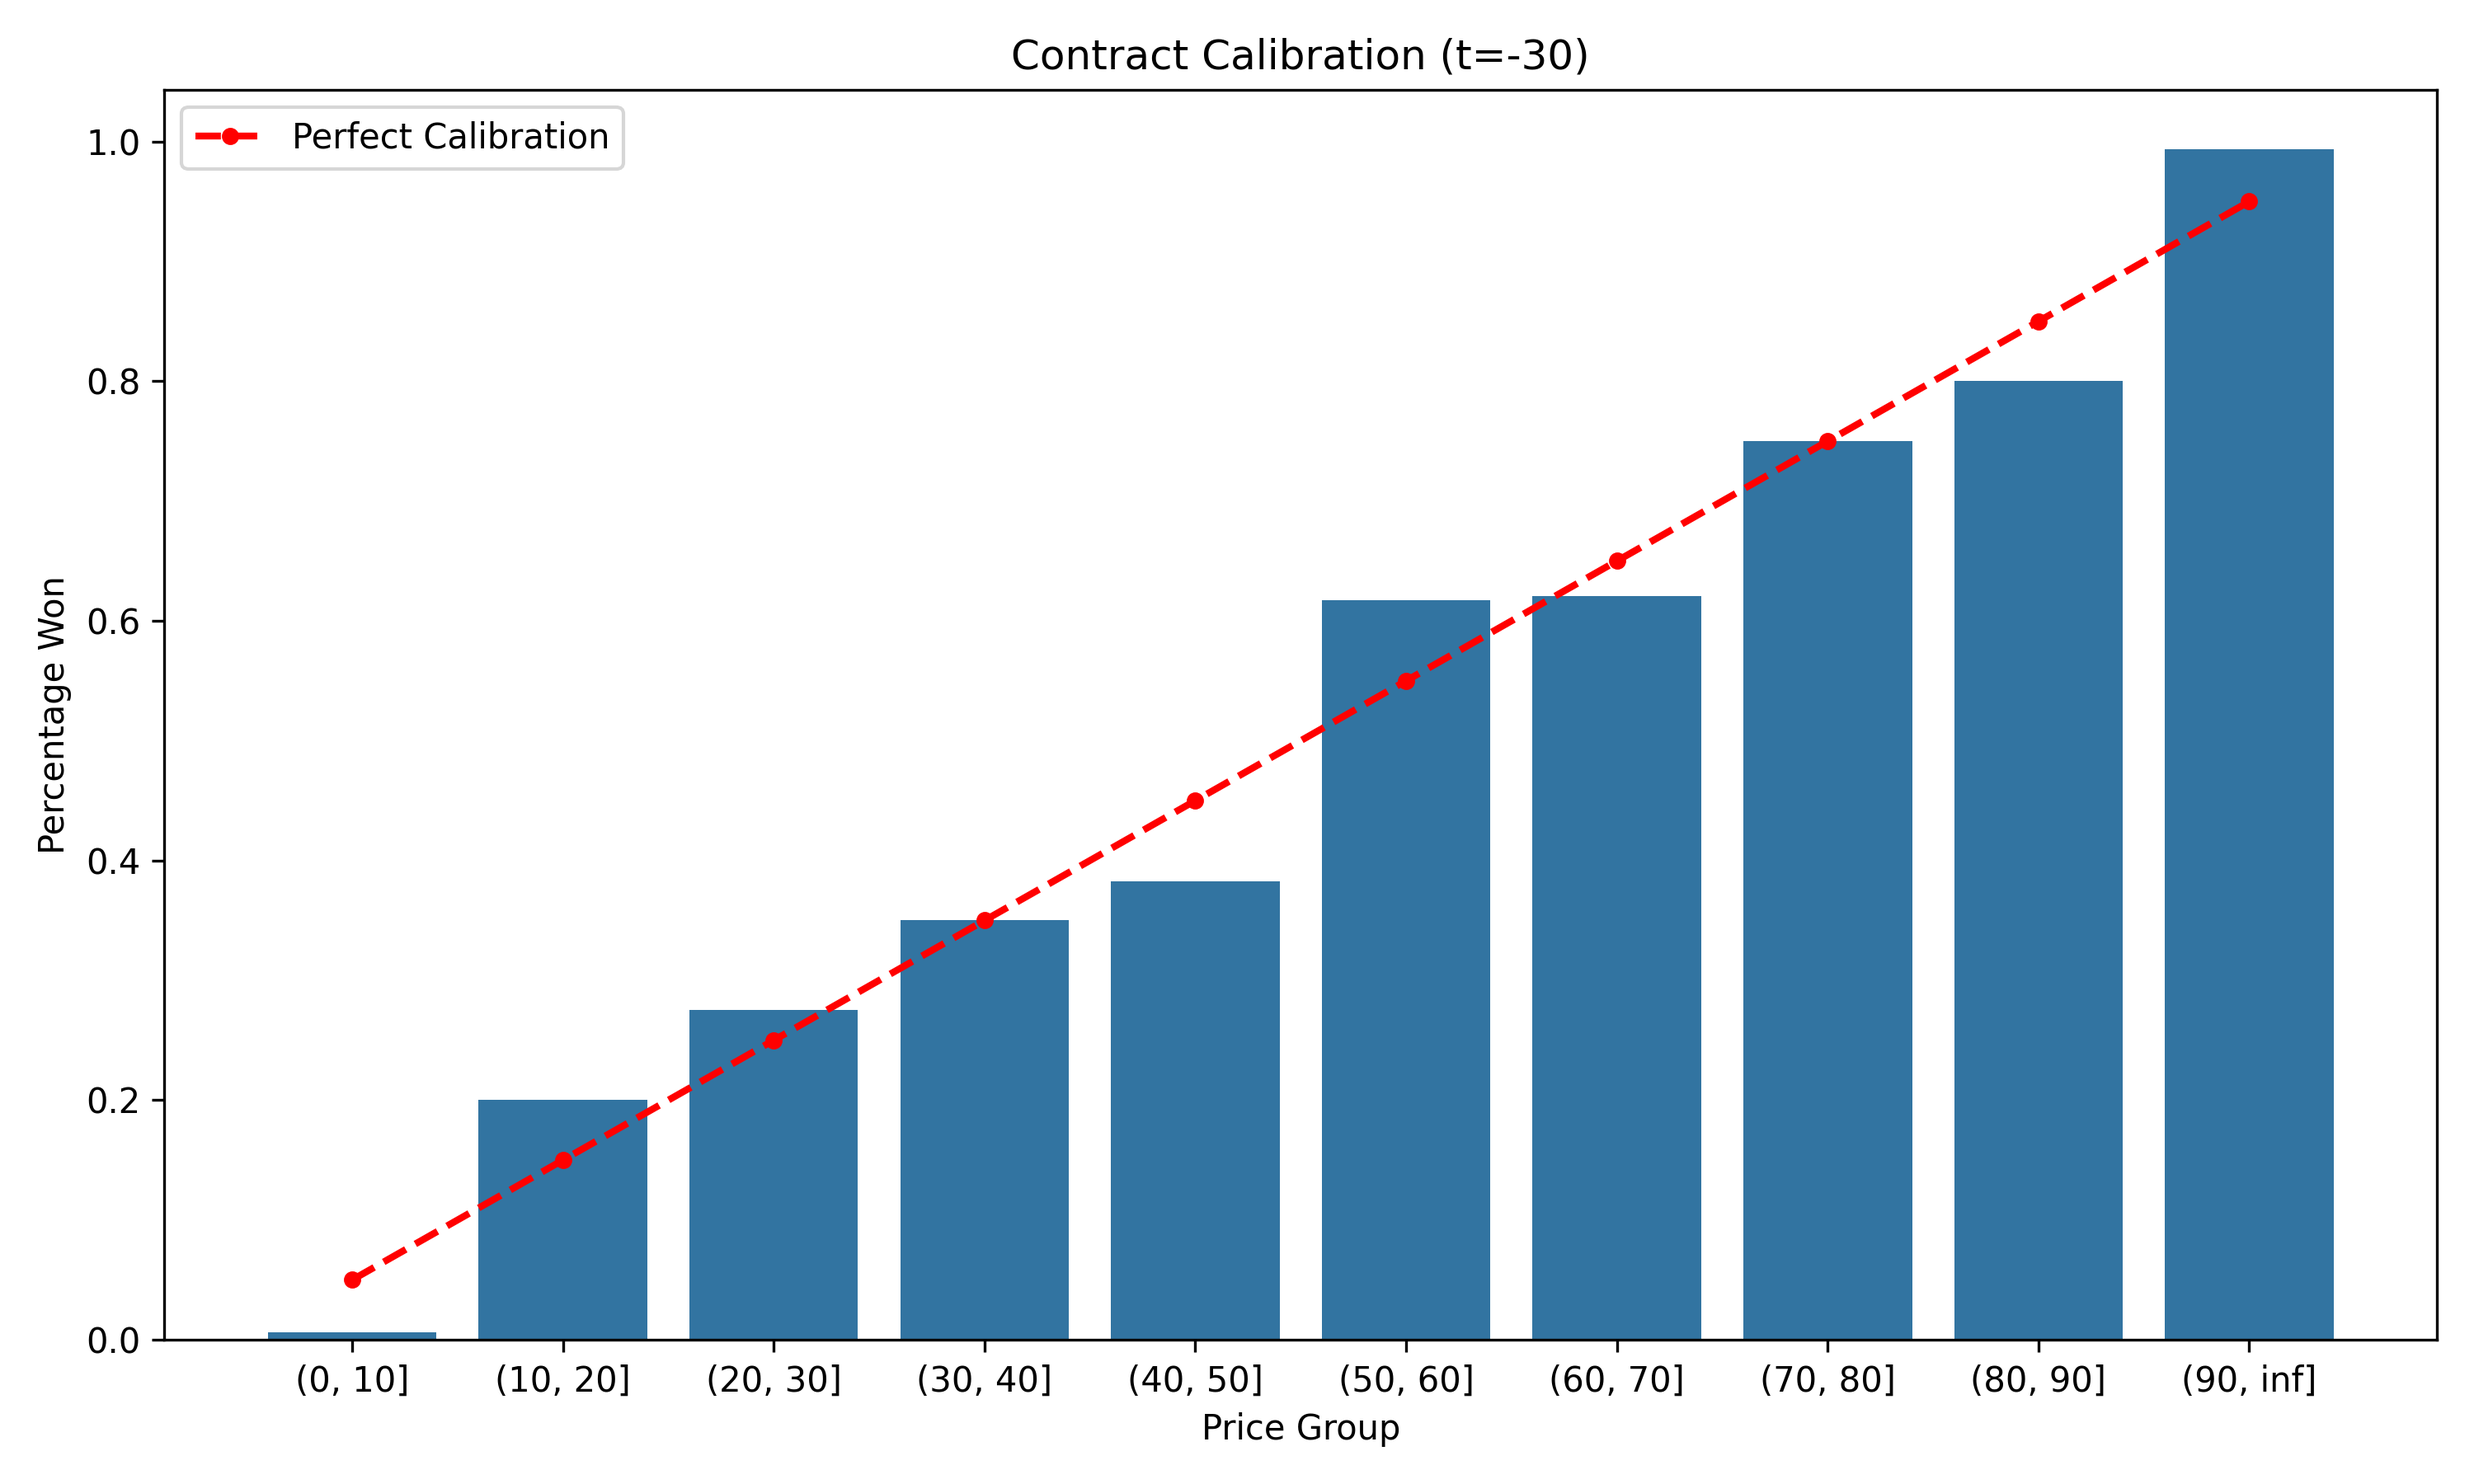
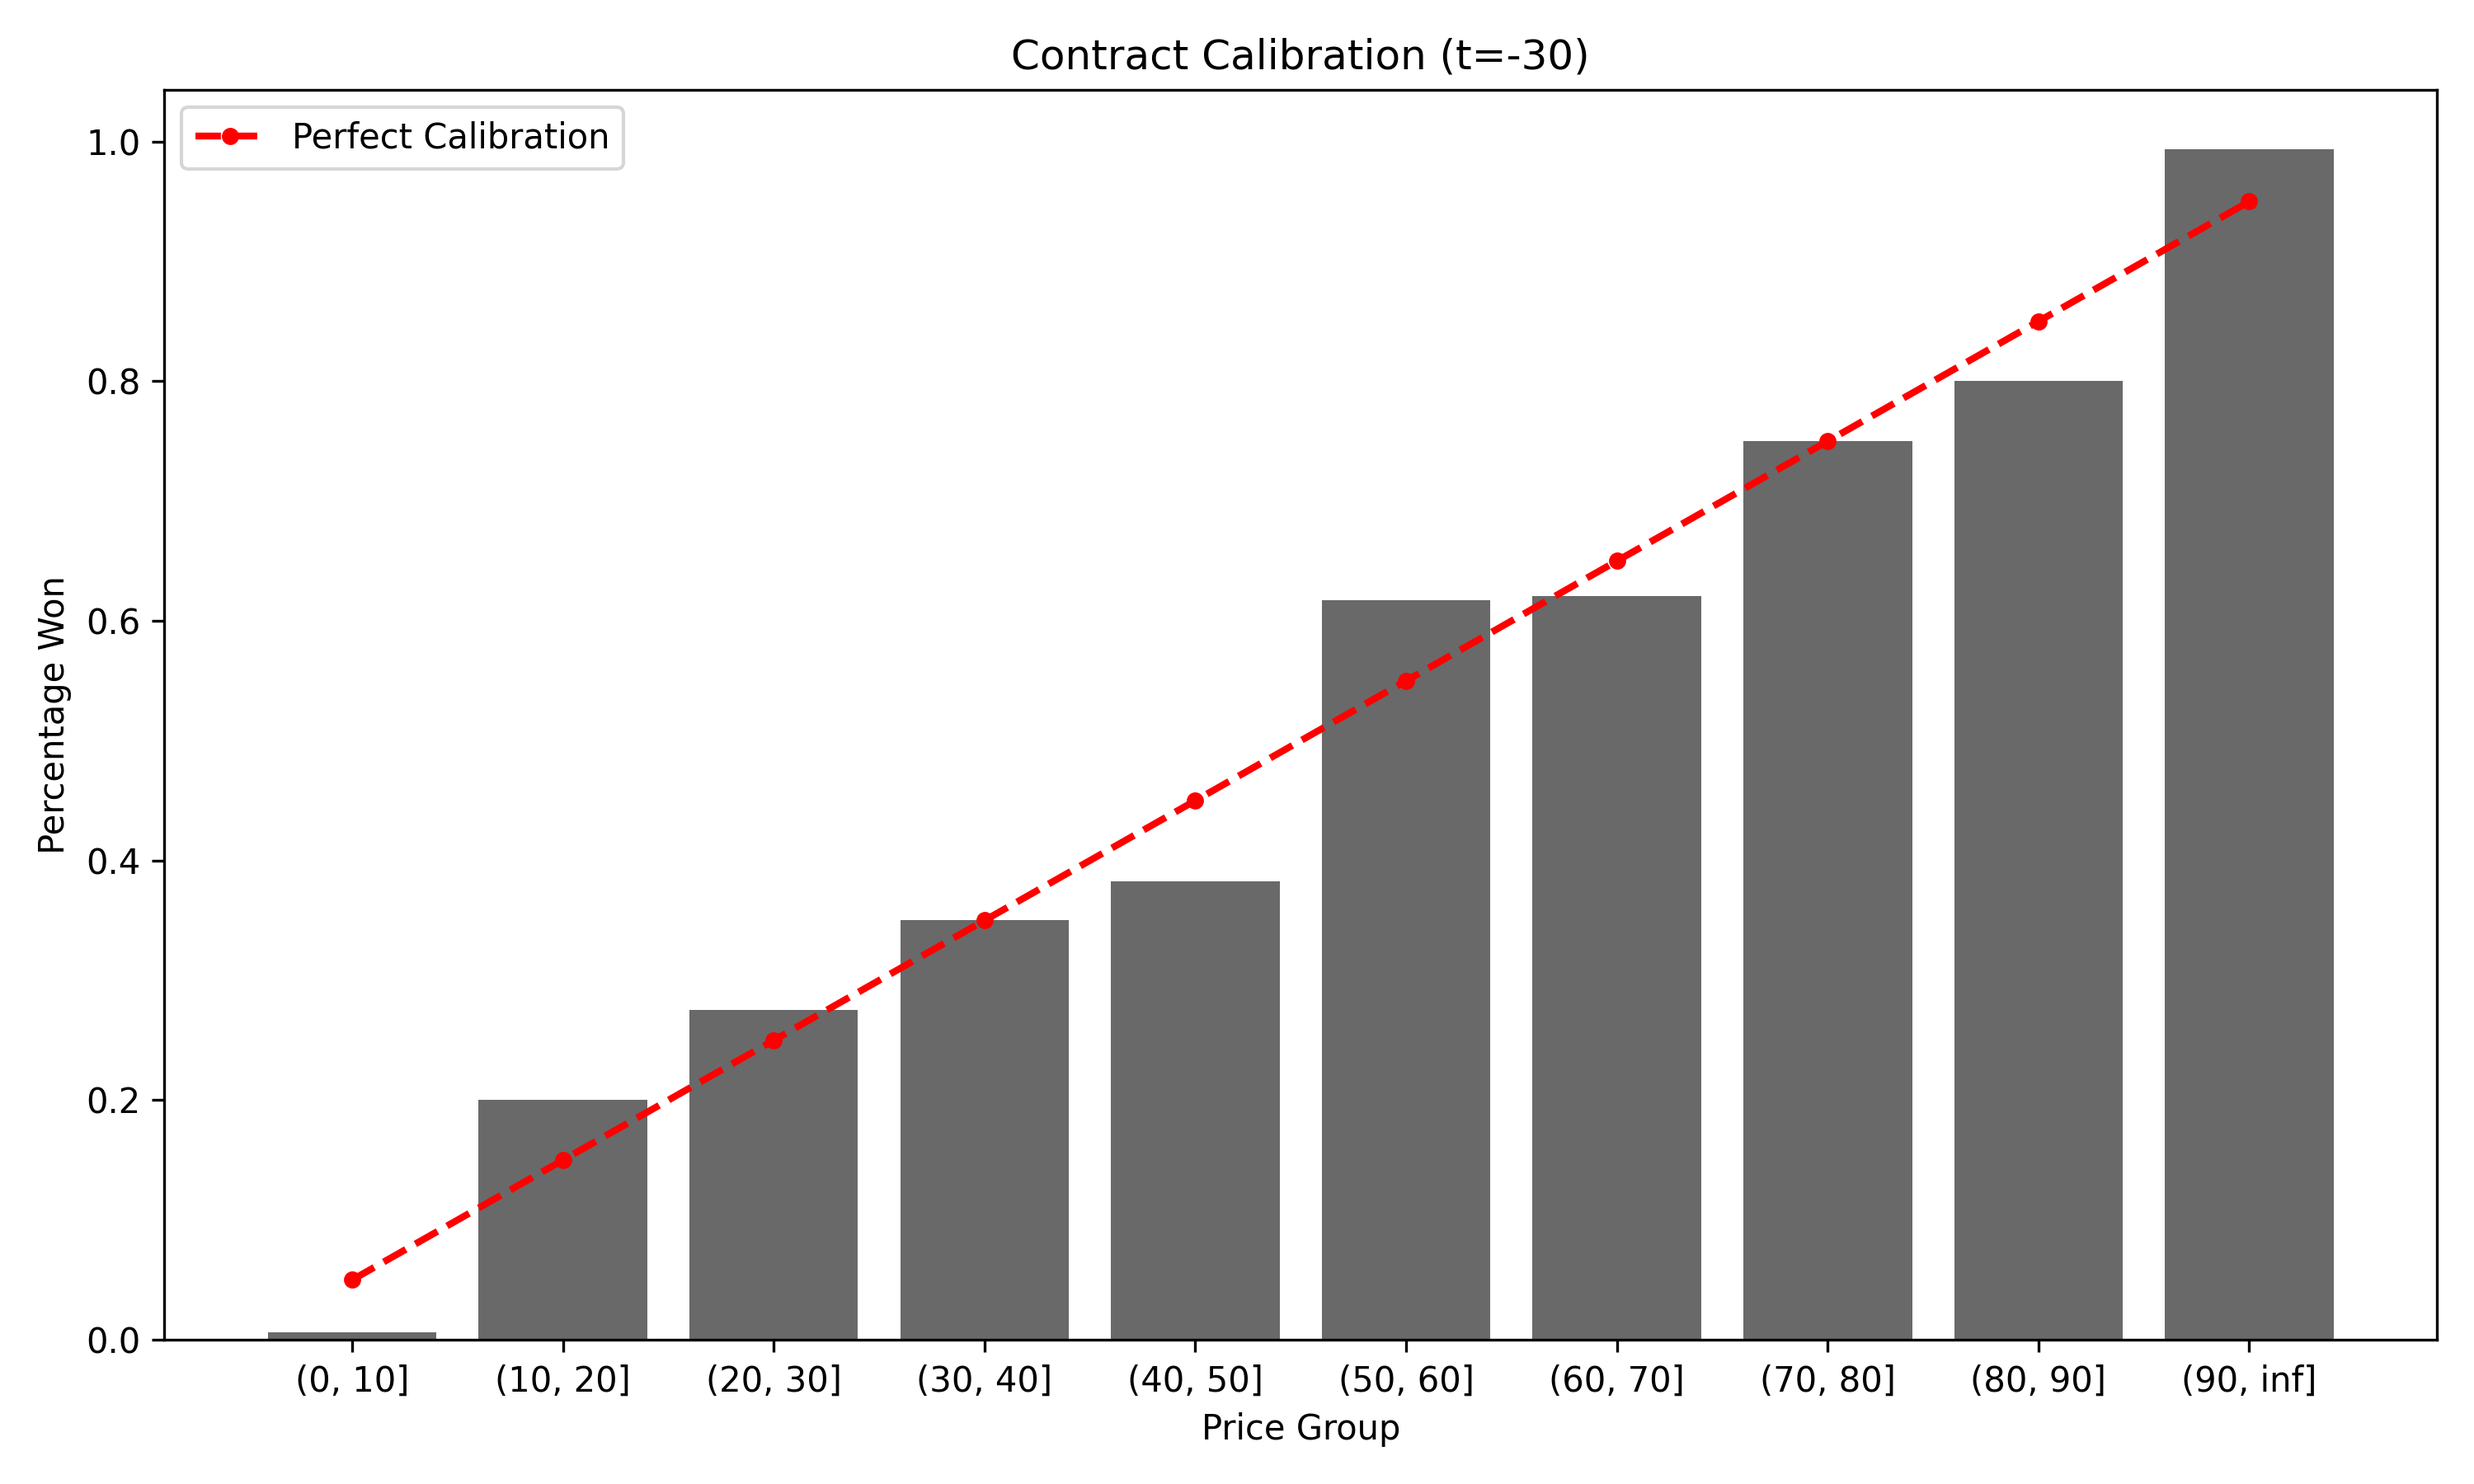
Modified charts.

Changed region(s): [[0.186, 0.0933, 0.961, 0.9022], [0.124, 0.8711, 0.155, 0.9022]]

diff --git a/nt_research/research/merger_arbitrage/experiment_1.py b/nt_research/research/merger_arbitrage/experiment_1.py
@@ -3,6 +3,7 @@ import datetime as dt
 import seaborn as sns
 import matplotlib.pyplot as plt
 import os
+from great_tables import GT
 
 
 def get_trades(trade_time: int):
@@ -54,7 +55,7 @@ def get_aggregate_trades(trades: pl.DataFrame) -> pl.DataFrame:
     )
 
 
-def create_calibration_table(aggregate_trades: pl.DataFrame, file_name: str | None = None) -> pl.DataFrame:
+def create_calibration_table(aggregate_trades: pl.DataFrame, title: str | None = None, file_name: str | None = None) -> pl.DataFrame:
     table = (
         aggregate_trades.with_columns(pl.col("result_mean", "result_stdev").mul(100))
         .with_columns(pl.col("result_mean").sub("price_mean").alias("delta"))
@@ -67,8 +68,23 @@ def create_calibration_table(aggregate_trades: pl.DataFrame, file_name: str | No
     )
 
     if file_name is not None:
-        with open(file_name, "w") as f:
-            f.write(str(table))
+        gt = (
+            GT(table)
+            .tab_header(title=title)
+            .fmt_number(columns=["trade_time_mean", "price_mean", "result_mean", "result_stdev", "delta", "tstat"], decimals=2)
+            .cols_label(
+                bin="Price Group",
+                trade_time_mean="Trade Time Mean",
+                price_mean="Price Mean",
+                result_mean="Result Mean",
+                result_stdev="Result St. Dev.",
+                count="Count",
+                delta="Delta",
+                tstat="T-stat"
+            )
+            .opt_stylize(style=5, color='gray')
+        )
+        gt.save(file_name)
 
     return table
 
@@ -79,7 +95,7 @@ def create_calibration_chart(
     plt.figure(figsize=(10, 6))
 
     # Result bars
-    sns.barplot(aggregate_trades, x="bin", y="result_mean")
+    sns.barplot(aggregate_trades, x="bin", y="result_mean", color="dimgray")
 
     # Perfect calibration reference line
     x_vals = [(x * 10 + 5) / 100 for x in range(10)]
@@ -126,7 +142,9 @@ if __name__ == "__main__":
 
     # Save results
     calibration_table = create_calibration_table(
-        aggregate_trades, file_name=f"{folder}/calibration_table_t={trade_time}.txt"
+        aggregate_trades, 
+        title=f"Contract Calibration (t={trade_time})",
+        file_name=f"{folder}/calibration_table_t={trade_time}.png"
     )
 
     create_calibration_chart(

diff --git a/nt_research/research/merger_arbitrage/experiment_2.py b/nt_research/research/merger_arbitrage/experiment_2.py
@@ -80,10 +80,10 @@ def create_calibration_over_time_chart(
     # Lines
     if price_bin is not None:
         sns.lineplot(
-            aggregate_trades, x="trade_time_mean", y="result_mean", label="Result Mean"
+            aggregate_trades, x="trade_time_mean", y="result_mean", label="Result Mean", color="black"
         )
         sns.lineplot(
-            aggregate_trades, x="trade_time_mean", y="price_mean", label="Price Mean"
+            aggregate_trades, x="trade_time_mean", y="price_mean", label="Price Mean", color="black", linestyle="--"
         )
     else:
         sns.lineplot(
